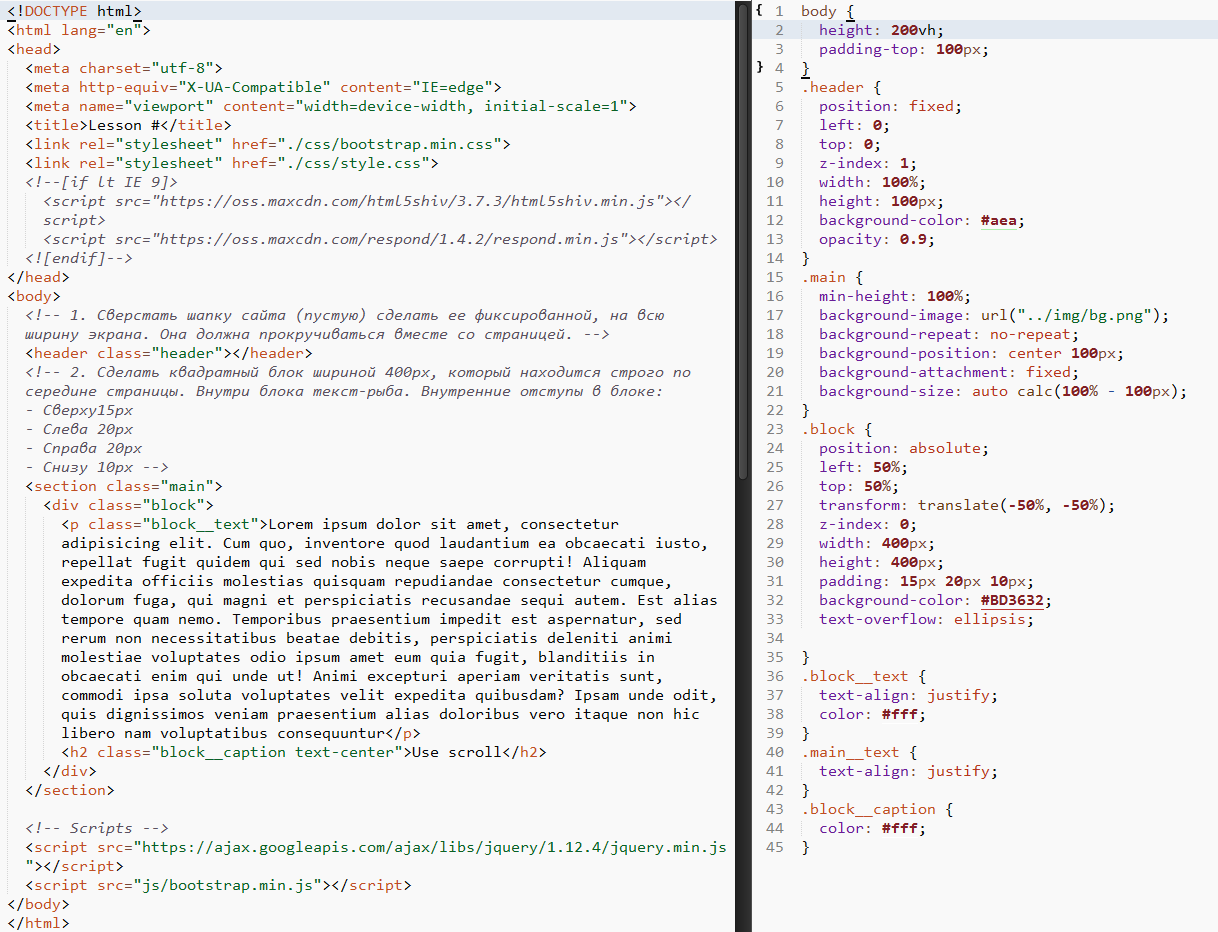
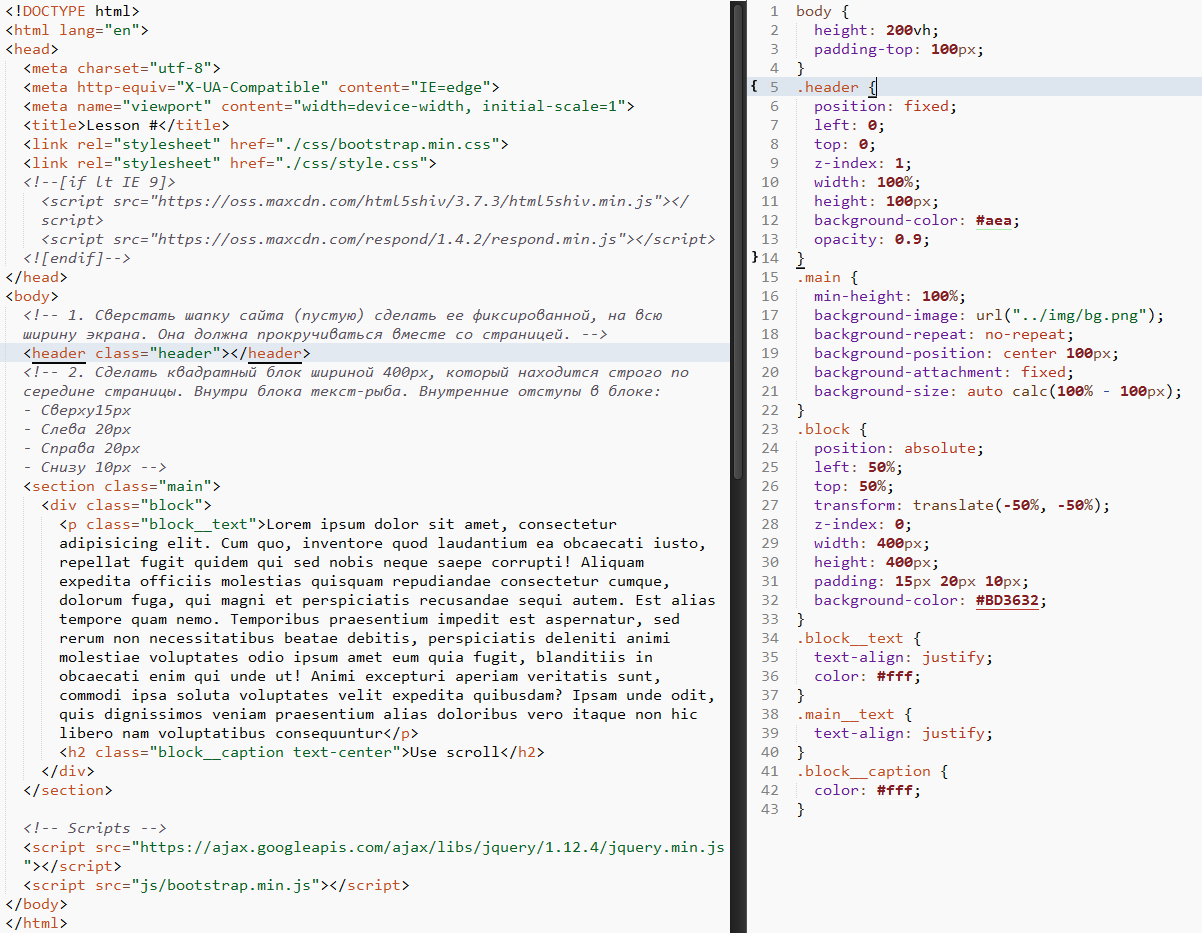
update bg for lesson-10

Changed region(s): [[0.0, 0.0, 1.0, 1.0]]

diff --git a/lesson-10/css/style.css b/lesson-10/css/style.css
@@ -30,8 +30,6 @@ body {
 	height: 400px;
 	padding: 15px 20px 10px;
 	background-color: #BD3632;
-	text-overflow: ellipsis;
-	
 }
 .block__text {
 	text-align: justify;
